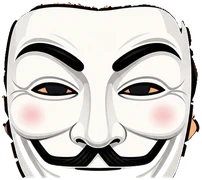
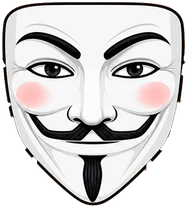
Case things: the Anonymous mask whole (redrawn with its top and chin); a glare sweeps across the diamond teeth
Claude-Session: https://claude.ai/code/session_01E3jaUxUo8xTQNwyakAWMq3

diff --git a/src/client/art/rig.tsx b/src/client/art/rig.tsx
@@ -10,7 +10,7 @@
  */
 import { ART_VER, usedUrl } from "../preload.ts";
 import type { PointerEvent as ReactPointerEvent, ReactNode } from "react";
-import { createContext, useContext, useEffect, useMemo, useRef } from "react";
+import { createContext, useContext, useEffect, useId, useMemo, useRef } from "react";
 import { RIG } from "./rig-data.ts";
 import { HAIR_CUT_HATS, HAIR_FIT, HATS_ON_HAIR, SKIN_ORIGINAL, WEAR_FIT } from "./rig-look.ts";
 import { HELD_FIT } from "./held-data.ts";
@@ -284,6 +284,7 @@ function Mouth() {
   const id = wornIn(worn, "MOUTH") ?? (worn.MOUTH && worn.MOUTH in MOUTH_HELD ? worn.MOUTH : null);
   // «Зубы»: the diamond grills — the same jaw with diamond teeth; with nothing in the mouth he grins with them
   const diamond = worn.TEETH === "grillz-diamond";
+  const uid = useId().replace(/:/g, "");
   const { skin } = useContext(LookCtx);
   if (!id && !diamond) return null;
   const href = `${skin !== SKIN_ORIGINAL ? `/assets/hero/skin-${skin}` : "/assets/hero"}/${diamond ? "jaw-diamond" : "jaw"}.webp?v=${ART_VER.heroPart}`;
@@ -293,6 +294,25 @@ function Mouth() {
       <svg x={JAW.x} y={JAW.y} width={JAW.w} height={JAW.h} viewBox={`0 0 ${JAW.w} ${JAW.h}`} overflow="hidden" pointerEvents="none">
         <image className="rig-jaw-f" href={href} x={0} y={0} width={JAW.w} height={JAW.h * JAW.frames} preserveAspectRatio="none"
           style={{ ["--fh" as string]: `${JAW.h}px` }} />
+        {/* the diamonds: a glare sweeps across the teeth (like on the medals), only where the teeth show */}
+        {diamond && (
+          <>
+            <defs>
+              <mask id={`${uid}-m`} maskUnits="userSpaceOnUse" x={0} y={0} width={JAW.w} height={JAW.h}>
+                <image className="rig-jaw-f" href={`/assets/hero/jaw-diamond-mask.webp?v=${ART_VER.heroPart}`} x={0} y={0} width={JAW.w} height={JAW.h * JAW.frames} preserveAspectRatio="none"
+                  style={{ ["--fh" as string]: `${JAW.h}px` }} />
+              </mask>
+              <linearGradient id={`${uid}-g`} x1="0" y1="0" x2="1" y2="0.35">
+                <stop offset="0" stopColor="#fff" stopOpacity="0" />
+                <stop offset="0.42" stopColor="#fff" stopOpacity="0.7" /><stop offset="0.5" stopColor="#fff" stopOpacity="1" /><stop offset="0.58" stopColor="#fff" stopOpacity="0.7" />
+                <stop offset="1" stopColor="#fff" stopOpacity="0" />
+              </linearGradient>
+            </defs>
+            <g mask={`url(#${uid}-m)`}>
+              <rect className="rig-teeth-shine" x={0} y={0} width={JAW.w * 0.42} height={JAW.h} fill={`url(#${uid}-g)`} />
+            </g>
+          </>
+        )}
       </svg>
       {/* the diamonds glint: little stars flash on the teeth now and then */}
       {diamond && (

diff --git a/src/app/screens.css b/src/app/screens.css
@@ -4823,3 +4823,8 @@ body { background-attachment: fixed; }
 @keyframes rig-glint { 0%, 100% { opacity: 0; scale: 0.2; } 4% { opacity: 1; scale: 1.15; rotate: 20deg; } 9% { opacity: 0; scale: 0.3; rotate: 45deg; } }
 .rig.still .rig-glint path { animation: none; }
 @media (prefers-reduced-motion: reduce) { .rig-glint path { animation: none; } }
+/* the diamond teeth: a glare runs across them now and then, like over the medals */
+.rig-teeth-shine { transform-box: view-box; animation: rig-teeth-shine 3.2s ease-in-out infinite; transform: translateX(-40px); }
+@keyframes rig-teeth-shine { 0%, 40% { transform: translateX(-50px); } 80%, 100% { transform: translateX(125px); } }
+.rig.still .rig-teeth-shine { animation: none; transform: translateX(40px); }
+@media (prefers-reduced-motion: reduce) { .rig-teeth-shine { animation: none; } }

diff --git a/src/client/preload.ts b/src/client/preload.ts
@@ -9,7 +9,7 @@ import { ASSET_FILES } from "./asset-manifest.ts";
 import { ROOM_BACKDROP, ROOM_BG } from "../content/home-scene.ts";
 
 /** cache-busting versions of redrawn art (bump when the picture changes) */
-export const ART_VER = { heroPart: 9, hair: 8, wear: 16, items: 19, pepe: 2, tattoo: 11, monitor: 2, chair: 5 } as const;
+export const ART_VER = { heroPart: 10, hair: 8, wear: 17, items: 20, pepe: 2, tattoo: 11, monitor: 2, chair: 5 } as const;
 
 /** the URL a screen really requests for a file from the manifest */
 export function usedUrl(path: string): string {

diff --git a/src/client/asset-manifest.ts b/src/client/asset-manifest.ts
@@ -267,6 +267,7 @@ export const ASSET_FILES: string[] = [
  "/assets/hero/handR.webp",
  "/assets/hero/head.webp",
  "/assets/hero/held/bottle-komandate.webp",
+ "/assets/hero/jaw-diamond-mask.webp",
  "/assets/hero/jaw-diamond.webp",
  "/assets/hero/jaw.webp",
  "/assets/hero/mouth-cigar.webp",

diff --git a/src/client/art/rig-look.ts b/src/client/art/rig-look.ts
@@ -183,10 +183,10 @@ export const WEAR_FIT = {
   },
   "mask-anon": {
     "slot": "FACE",
-    "x": 402.0,
-    "y": 85.0,
-    "w": 202,
-    "h": 180
+    "x": 408.5,
+    "y": 124.0,
+    "w": 188,
+    "h": 208
   },
   "monocle-whale": {
     "slot": "FACE",

diff --git a/tools/rig/build-mouth.py b/tools/rig/build-mouth.py
@@ -96,6 +96,22 @@ for name, vu, vd in VARIANTS:
     im = Image.fromarray((np.clip(np.nan_to_num(sheet), 0, 1) * 255 + 0.5).astype(np.uint8), "RGBA")
     path = os.path.join(OUT, f"{name}.webp") if tone == SKIN_ORIGINAL else os.path.join(OUT, f"skin-{tone}", f"{name}.webp")
     im.save(path, "WEBP", quality=90, method=6)
+# the diamond teeth's shine mask: white where the teeth show in each frame, black elsewhere (the rig sweeps a glare through it)
+def solid(l, v):
+    o = l.copy(); o[:, :, :3] = v; return o
+du, dd = load("teeth-up-diamond"), load("teeth-down-diamond")
+mask = np.zeros((oh * FRAMES, ow, 4), np.float32)
+for i in range(FRAMES):
+    t = i / (FRAMES - 1); d = DROP * t
+    mapy = (yy - d * vy * hx).astype(np.float32)
+    warped = cv2.remap(solid(lips, 0), xx, mapy, cv2.INTER_LINEAR, borderMode=cv2.BORDER_CONSTANT, borderValue=0)
+    low = cv2.warpAffine(solid(dd, 1), np.float32([[1, 0, 0], [0, 1, d]]), (W, H), flags=cv2.INTER_LINEAR)
+    c = np.zeros((H, W, 4), np.float32); c[:, :, 3] = 1
+    for layer in (solid(inside, 0), solid(du, 1), low, warped): c = over(c, layer)
+    f = c[y0:y1, x0:x1]
+    mask[i * oh:(i + 1) * oh] = cv2.resize(f, (ow, oh), interpolation=cv2.INTER_AREA)
+mask[:, :, 3] = 1
+Image.fromarray((np.clip(mask, 0, 1) * 255 + 0.5).astype(np.uint8), "RGBA").convert("L").save(os.path.join(OUT, "jaw-diamond-mask.webp"), "WEBP", quality=90)
 data = {"x": round(RIG_X0 + (x0 - REF_X0) / K, 2), "y": round(RIG_Y0 + (y0 - REF_Y0) / K, 2), "w": round(fw, 2), "h": round(fh, 2), "frames": FRAMES,
         # the middle of the mouth (rig): the thing in the mouth is flipped around it to the other corner
         "mouth": [round(float(RIG_X0 + (cx - REF_X0) / K), 1), round(float(RIG_Y0 + (split - REF_Y0) / K), 1)]}
